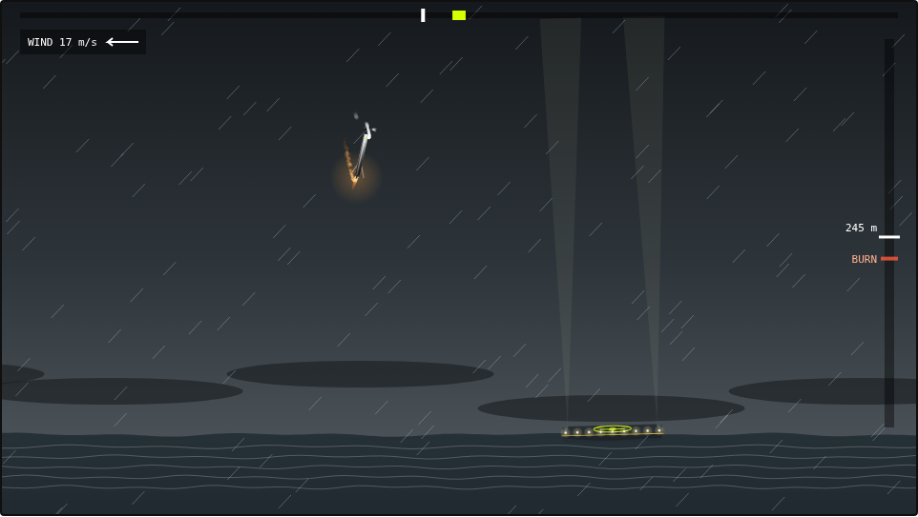
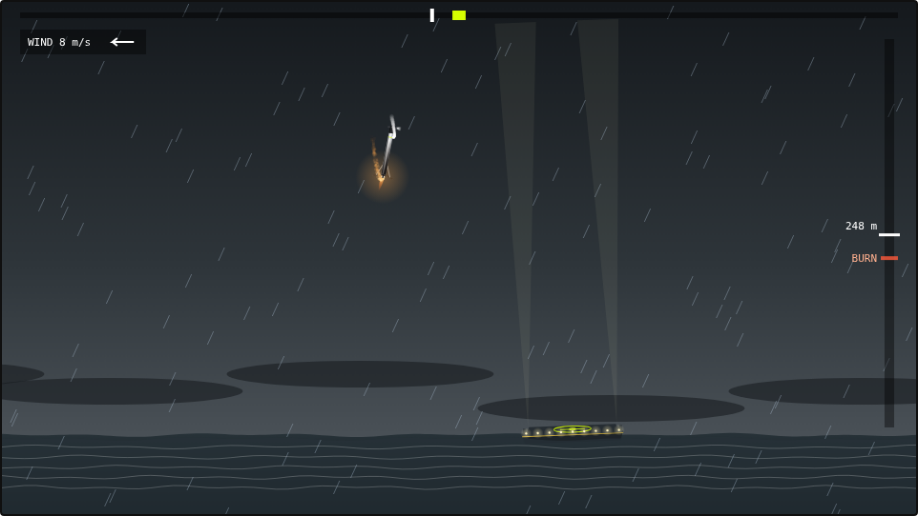
I added a Daily Drop to the booster landing and docking games: one shared UK-date challenge a day with a share card

diff --git a/docking-run-game/js/main.js b/docking-run-game/js/main.js
@@ -3,6 +3,8 @@ import * as THREE from './vendor/three.min.js';
 import * as P from './physics.js';
 import {LEVELS, byId} from './levels.js';
 import {buildBackground, buildStation, buildCapsule, puffSprite} from './scene.js';
+import {ukDate, countdown, grid, makeStore} from './daily.js';
+import {dailyLevel} from './daily-level.js';
 
 const $ = id => document.getElementById(id);
 const KEY = 'docking:stats';
@@ -15,6 +17,7 @@ const app = {sim: null, level: byId(store().level), keys: new Set(), fine: false
   orbit: {yaw: 0, pitch: 0.2, dist: 16}, said: {}, trail: [], prevJets: new Float32Array(P.JETS.length), finished: false, chaseOff: null, chaseUp: null, evIdx: 0, hudT: 0, puffs: [], resultShown: false};
 window.DockingRun = {sim: () => app.sim, start: id => start(byId(id)), setScale: k => { app.testScale = k; }, onStep: null, P, levels: LEVELS,
   orbit: () => app.orbit, setCam: c => { app.cam = c; syncToggles(); }, clean: on => { app.clean = on; over.style.visibility = on ? 'hidden' : ''; $('keys-overlay').style.visibility = on ? 'hidden' : ''; },
+  daily: () => dailyLevel(), startDaily: () => startDaily(), dailyRecord: () => DAILY.get(ukDate()), dailyCard: () => { const r = DAILY.get(ukDate()); return r && dailyCard(r); }, last: null,
   state: () => ({phase: app.sim?.phase, warp: app.warp, cam: app.cam, fine: app.fine, assist: app.assist, paused: app.paused, finished: app.finished, keys: [...app.keys]})};
 
 // ---------- renderer and scenes ----------
@@ -43,11 +46,11 @@ const CAM_TURN = new THREE.Quaternion().setFromAxisAngle(new THREE.Vector3(0, 1,
 
 // ---------- a run ----------
 function start(level) {
-  cancelAnimationFrame(app.raf); app.level = level; const st = store(); st.level = level.id; write(st);
+  cancelAnimationFrame(app.raf); if (!level.daily) { app.level = level; app.daily = null; const st = store(); st.level = level.id; write(st); }
   app.sim = P.makeSim(level); app.keys.clear(); app.warp = 1; app.paused = false; app.said = {}; app.trail = []; app.finished = false; app.resultShown = false; app.evIdx = 0; app.chaseOff = null; app.acc = 0;
   app.fine = level.start.ax < 60; syncToggles();
   $('flight').hidden = false; $('screen-title').hidden = true; document.body.dataset.screen = 'game'; scrollTo(0, 0); $('result').hidden = true;
-  $('flight-h').textContent = level.name; $('level-note').textContent = level.blurb; say('');
+  $('flight-h').textContent = level.name + (level.daily && app.daily.practice ? ' (practice)' : ''); $('level-note').textContent = (level.daily ? (app.daily.practice ? 'Practice: this run is not scored. ' : 'Your one scored run today. ') : '') + level.blurb; say('');
   if (!glReady && !initGL()) return;
   resize(); view.focus({preventScroll: true}); app.last = performance.now(); app.raf = requestAnimationFrame(loop);
 }
@@ -103,7 +106,7 @@ function poseObjects(dt) {
   const sun = P.sunDir(s), lit = P.sunlit(s), sunB = P.qrotT(st.q, sun);
   for (const w of station.wings) w.rotation.z = Math.atan2(-sunB[0], sunB[1]);
   sunLight.position.set(sun[0] * 100, sun[1] * 100, sun[2] * 100); sunLight.intensity = 2.8 * lit;
-  const below = THREE.MathUtils.smoothstep(sun[1], -0.25, 0.35); earthshine.intensity = 0.9 * below * (app.level.night ? 0 : 1);
+  const below = THREE.MathUtils.smoothstep(sun[1], -0.25, 0.35); earthshine.intensity = 0.9 * below * (s.level.night ? 0 : 1);
   const dark = 1 - lit; capsule.flood.intensity = 30 * dark + 3; station.portSpot.intensity = 50 * dark + 6; station.portLight.intensity = 5 + 10 * dark;
   const t = performance.now() / 1000;
   for (const L of station.lights) { const b = L.userData.blink; L.material.opacity = b === 1 ? (t % 1.6 < 0.9 ? 1 : 0.15) : b === 2 ? (t % 2.1 < 0.12 ? 1 : 0.05) : 0.9; L.material.opacity *= 0.35 + 0.65 * dark; }
@@ -237,8 +240,9 @@ function syncToggles() {
 
 // ---------- finish ----------
 function finish() {
-  const s = app.sim, L = app.level, sc = P.score(s), st = store(); app.resultShown = true; sound(0, true);
+  const s = app.sim, L = s.level, sc = P.score(s), st = store(); app.resultShown = true; sound(0, true);
   const ok = s.phase === 'docked';
+  if (L.daily) return finishDaily(s, L, sc, ok);
   $('result').hidden = false; const c = s.contact;
   if (ok) {
     const prev = st.best[L.id] || 0, nb = sc.total > prev; if (nb) st.best[L.id] = sc.total; st.docks[L.id] = (st.docks[L.id] || 0) + 1; write(st);
@@ -252,6 +256,34 @@ function finish() {
   }
   const i = LEVELS.indexOf(L); $('next').hidden = !ok || i === LEVELS.length - 1; levelList(); $('again').focus({preventScroll: true});
 }
+
+// ---------- Daily Drop: one scored run a day for everyone, then practice that doesn't count ----------
+const DAILY = makeStore('docking:daily'), SITE = 'https://dexmlabs.app/docking-run-game/';
+function dailyCard(rec) {
+  const head = `DEXM Docking #${rec.no}`;
+  if (!rec.docked) return `${head} 💥 ${rec.lost}\n${grid([0, 0, 0, 0, 0, 0])}\n${SITE}?daily`;
+  return `${head} 🛰 Docked ${(rec.closing * 100).toFixed(1)} cm/s · ${(rec.lat * 100).toFixed(1)} cm off · ${rec.fuelPct}% fuel\n${grid(rec.grid)} ${rec.score} pts\n${SITE}?daily`;
+}
+function startDaily() { const L = dailyLevel(), done = DAILY.get(L.date); app.daily = {L, practice: !!done || L.no < 0}; start(L); }
+function finishDaily(s, L, sc, ok) {
+  const c = s.contact, rec = ok ? {no: L.no, docked: true, score: sc.total, closing: c.closing, lat: c.lat, fuelPct: Math.round(s.prop / s.prop0 * 100), grid: [sc.parts.speed / 250, sc.parts.centre / 250, sc.parts.align / 200, sc.parts.rates / 100, sc.parts.fuel / 250, sc.parts.time / 200]}
+    : {no: L.no, docked: false, score: 0, lost: s.phase === 'lost' ? 'Lost the station.' : 'Collision.'};
+  const scored = !app.daily.practice && DAILY.put(L.date, rec); app.daily.practice = true;
+  $('result-head').textContent = ok ? `Hard capture. ${sc.total} points: ${P.rank(sc.total)}.` : rec.lost;
+  $('result-text').textContent = (ok ? `Contact at ${c.closing.toFixed(3)} m/s, ${(c.lat * 100).toFixed(1)} cm off the centreline, ${c.ang.toFixed(2)}° off axis, with ${s.prop.toFixed(1)} kg of propellant left.` : (s.fault || '')) + (scored ? ' That was your scored run for today. Fly again to practise.' : ' Practice run, not scored.');
+  if (ok) { const p = sc.parts; $('result-parts').innerHTML = [['Closing rate', p.speed], ['Centreline', p.centre], ['Alignment', p.align], ['Rates', p.rates], ['Fuel', p.fuel], ['Time', p.time]].map(([k, v]) => `<div><b>${v}</b><span>${k}</span></div>`).join(''); }
+  $('result-parts').hidden = !ok; $('next').hidden = true;
+  const today = DAILY.get(L.date); app.share = today ? dailyCard(today) : `Docking Run, ${L.name} (practice). ${SITE}?daily`; $('share').textContent = today ? 'Copy Daily Drop card' : 'Copy result';
+  window.DockingRun.last = {daily: true, docked: ok, score: sc.total || 0}; levelList(); renderDaily(); $('again').focus({preventScroll: true});
+}
+function renderDaily() {
+  const L = dailyLevel(), rec = DAILY.get(L.date), pre = L.no < 0;
+  $('daily-h').textContent = pre ? 'Daily Drop #0 lands at midnight' : `Daily Drop #${L.no}`; $('daily-blurb').textContent = (pre ? 'Preview: ' : '') + L.blurb;
+  $('daily-status').textContent = pre ? 'Practise the preview now. Scoring starts with #0.' : rec ? (rec.docked ? `Today: ${rec.score} points. Practice runs don't count.` : `Today: ${rec.lost} Practice runs don't count.`) : 'One scored run today, the same for everyone. Then practise as much as you like.';
+  $('daily-play').innerHTML = `${rec || pre ? 'Practise today\'s drop' : 'Fly today\'s drop'} <span aria-hidden="true">&rarr;</span>`; $('daily-share').hidden = !rec; $('daily').classList.toggle('played', !!rec);
+}
+function tickDaily() { $('daily-next').textContent = `Next drop in ${countdown()}`; if (app.dailyDate && app.dailyDate !== ukDate()) renderDaily(); app.dailyDate = ukDate(); }
+function copyShare(text) { app.share = text; navigator.clipboard?.writeText(text).then(() => say('Result copied.'), () => { $('share-text').hidden = false; $('share-text').value = text; }); }
 
 // ---------- sound: off unless switched on ----------
 let audio = null;
@@ -292,7 +324,7 @@ addEventListener('keydown', e => {
   if (h) { app.keys.add(h); e.preventDefault(); return; }
   if (e.repeat) return;
   const act = {KeyT: () => toggle('fine'), KeyH: () => toggle('assist'), KeyC: () => toggle('cam'), KeyP: () => toggle('pause'), Escape: () => toggle('pause'), BracketRight: () => setWarp(1), Period: () => setWarp(1), BracketLeft: () => setWarp(-1), Comma: () => setWarp(-1), Slash: () => toggle('keys'),
-    Enter: () => { if (app.resultShown) start(app.level); }, KeyN: () => { if (app.resultShown && !$('next').hidden) next(); }, KeyM: () => { const st = store(); st.sound = !st.sound; write(st); $('sound').checked = st.sound; say(st.sound ? 'Sound on.' : 'Sound off.'); if (!st.sound && audio) audio.g.gain.value = 0; }}[c];
+    Enter: () => { if (app.resultShown) again(); }, KeyN: () => { if (app.resultShown && !$('next').hidden) next(); }, KeyM: () => { const st = store(); st.sound = !st.sound; write(st); $('sound').checked = st.sound; say(st.sound ? 'Sound on.' : 'Sound off.'); if (!st.sound && audio) audio.g.gain.value = 0; }}[c];
   if (act) { act(); e.preventDefault(); }
 });
 addEventListener('keyup', e => { const h = HOLD[codeOf(e)]; if (h) app.keys.delete(h); });
@@ -309,10 +341,11 @@ view.addEventListener('pointerdown', e => { drag = {x: e.clientX, y: e.clientY, 
 addEventListener('pointermove', e => { if (!drag || app.cam !== 'chase') return; app.orbit.yaw = drag.yaw + (e.clientX - drag.x) * 0.008; app.orbit.pitch = Math.max(-1.3, Math.min(1.3, drag.pitch + (e.clientY - drag.y) * 0.006)); });
 addEventListener('pointerup', () => { drag = null; });
 view.addEventListener('wheel', e => { if (app.cam !== 'chase') return; e.preventDefault(); app.orbit.dist = Math.max(6, Math.min(120, app.orbit.dist * Math.exp(e.deltaY * 0.001))); }, {passive: false});
-$('again').addEventListener('click', () => start(app.level)); $('next').addEventListener('click', next);
+const again = () => app.daily ? startDaily() : start(app.level);
+$('again').addEventListener('click', again); $('daily-play').addEventListener('click', startDaily); $('daily-share').addEventListener('click', () => { const r = DAILY.get(ukDate()); if (r) copyShare(dailyCard(r)); }); $('next').addEventListener('click', next);
 function next() { const i = LEVELS.indexOf(app.level); start(LEVELS[Math.min(LEVELS.length - 1, i + 1)]); }
-$('share').addEventListener('click', () => navigator.clipboard?.writeText(app.share).then(() => say('Result copied.'), () => { $('share-text').hidden = false; $('share-text').value = app.share; }));
-$('back').addEventListener('click', () => { cancelAnimationFrame(app.raf); sound(0, true); app.sim = null; $('flight').hidden = true; $('screen-title').hidden = false; document.body.dataset.screen = 'title'; levelList(); scrollTo(0, 0); });
+$('share').addEventListener('click', () => copyShare(app.share));
+$('back').addEventListener('click', () => { cancelAnimationFrame(app.raf); sound(0, true); app.sim = null; $('flight').hidden = true; $('screen-title').hidden = false; document.body.dataset.screen = 'title'; levelList(); renderDaily(); scrollTo(0, 0); });
 
 // ---------- title screen ----------
 function levelList() {
@@ -326,3 +359,5 @@ $('play').addEventListener('click', () => start(app.level));
 $('sound').checked = !!store().sound; $('sound').addEventListener('change', e => { const st = store(); st.sound = e.target.checked; write(st); if (!st.sound && audio) audio.g.gain.value = 0; });
 if (store().keysHidden) $('keys-overlay').hidden = true;
 levelList(); syncToggles();
+renderDaily(); tickDaily(); setInterval(tickDaily, 1000);
+if (new URLSearchParams(location.search).has('daily')) startDaily();

diff --git a/booster-landing-game/js/main.js b/booster-landing-game/js/main.js
@@ -1,6 +1,8 @@
 import {step, deck, target, deckYAt, seaY, wind, rho, stopHeight, hoverSeconds, throttleUp, throttleDown, deployLegs, closeArms, catchWindow, inWindow, makeWorld, score, parts, LIMITS, LEGS, TOWER, CATCH, DEG} from './physics.js';
 import {LEVELS, MISSIONS, level} from './levels.js';
 import {drawVehicle} from './draw-vehicles.js';
+import {ukDate, puzzleNo, countdown, grid, makeStore} from './daily.js';
+import {dailyLevel} from './daily-level.js';
 const $ = id => document.getElementById(id);
 const read = (k, d) => { try { return JSON.parse(localStorage.getItem(k)) ?? d; } catch { return d; } };
 const write = (k, v) => { try { localStorage.setItem(k, JSON.stringify(v)); } catch {} };
@@ -22,12 +24,33 @@ function say(t) { $('feedback').textContent = t; }
 
 const NOTES = {calm: 'Coast down, burn late and hard, then feather it onto the ring. Legs below 90 m/s.', windy: 'The wind is stronger up high. Lean into it and let the grid fins glide you over.', night: 'You start supersonic. A short entry burn keeps the heat down. Watch for the deck lights.', storm: 'You will cook without an entry burn. Then a gale, rain and a deck that rises and falls a few metres.',
   'catch-calm': 'Come in beside the tower, not over it. Hover with the catch pins level with the arms, centred, then close them with C.', 'catch-cross': 'The wind blows you towards the tower. Hold a little upwind and lean into it.', 'catch-night': 'Floodlit and gusty. The green marks show where the pins need to be.'};
+// Daily Drop: one scored flight a day for everyone, then practice that doesn't count.
+const DAILY = makeStore('booster:daily'), SITE = 'https://dexmlabs.app/booster-landing-game/';
+function dailyCard(rec) {
+  const head = `DEXM Booster #${rec.no}`, tower = rec.kind === 'tower';
+  if (!rec.landed) return `${head} 💥 ${rec.lost}\n${grid([0, 0, 0, 0, 0])}\n${SITE}?daily`;
+  return `${head} ${tower ? '🗼 Caught' : '🚀 Landed'} ${rec.impact.toFixed(1)} m/s · ${rec.dist.toFixed(1)} m off · ${rec.fuelPct}% fuel\n${grid(rec.grid)} ${rec.score} pts\n${SITE}?daily`;
+}
+function startDaily() {
+  const L = dailyLevel(), done = DAILY.get(L.date);
+  app.daily = {L, practice: !!done || L.no < 0}; start(L, L.seed);
+}
+function renderDaily() {
+  const box = $('daily'); if (!box) return; const L = dailyLevel(), rec = DAILY.get(L.date), pre = L.no < 0;
+  $('daily-h').textContent = pre ? `Daily Drop #0 lands at midnight` : `Daily Drop #${L.no}`;
+  $('daily-blurb').textContent = (pre ? 'Preview: ' : '') + L.blurb;
+  $('daily-status').textContent = pre ? 'Practise the preview now. Scoring starts with #0.' : rec ? (rec.landed ? `Today: ${rec.score} points. Practice flights don't count.` : `Today: ${rec.lost} Practice flights don't count.`) : 'One scored flight today, the same for everyone. Then practise as much as you like.';
+  $('daily-play').innerHTML = `${rec || pre ? 'Practise today\'s drop' : 'Fly today\'s drop'} <span aria-hidden="true">&rarr;</span>`;
+  $('daily-share').hidden = !rec; box.classList.toggle('played', !!rec);
+}
+function tickDaily() { const e = $('daily-next'); if (e) e.textContent = `Next drop in ${countdown()}`; if (app.dailyDate && app.dailyDate !== ukDate()) renderDaily(); app.dailyDate = ukDate(); }
+function copyShare(text) { app.share = text; navigator.clipboard?.writeText(text).then(() => say('Result copied.'), () => { $('share-text').hidden = false; $('share-text').value = text; }); }
 function start(id = app.level, seed = Math.floor(Math.random() * 2 ** 31)) {
-  cancelAnimationFrame(app.raf); app.level = id; const L = level(id), w = makeWorld(L, seed, {assist: app.assist});
+  cancelAnimationFrame(app.raf); const L = typeof id === 'object' ? id : level(id); if (!L.daily) { app.level = id; app.daily = null; } const w = makeWorld(L, seed, {assist: L.daily ? false : app.assist});
   Object.assign(app, {w, s: {...w.start}, keys: {}, said: {}, parts: [], rings: [], shake: 0, flash: 0, bolt: null, paused: false, acc: 0, ended: false, rec: [], replay: null, after: 0});
   app.cam = {scale: camTarget(w, w.start).scale, x: w.start.x}; app.clouds = makeClouds(seed, L);
   $('flight').hidden = false; $('screen-title').hidden = true; document.body.dataset.screen = 'game'; document.body.dataset.kind = w.kind; scrollTo(0, 0); $('result').hidden = true; $('paused').hidden = true; say('');
-  $('flight-h').textContent = `${L.name}: ${L.blurb}`; $('level-note').textContent = NOTES[id] + (w.kind === 'tower' && w.assist ? ' Arm assist is on.' : '');
+  $('flight-h').textContent = `${L.name}${L.daily && app.daily.practice ? ' (practice)' : ''}: ${L.blurb}`; $('level-note').textContent = (L.daily ? (app.daily.practice ? 'Practice: this flight is not scored. ' : 'Your one scored flight today. ') + (w.kind === 'tower' ? NOTES['catch-calm'] : NOTES.calm) : NOTES[id]) + (w.kind === 'tower' && w.assist ? ' Arm assist is on.' : '');
   const tower = w.kind === 'tower', lab = (k, t) => { $('h-' + k).nextElementSibling.textContent = t; };
   lab('alt', tower ? 'Pins above arms' : 'Height above deck'); lab('range', tower ? 'To the arms' : 'To deck centre'); lab('legs', tower ? 'Arms' : 'Legs'); lab('deck', tower ? 'Carriage height' : 'Deck, m/s');
   $('legs').textContent = tower ? 'Close arms (C)' : 'Legs (L)'; $('legs').setAttribute('aria-label', tower ? 'Close the arms (C)' : 'Deploy legs (L)');
@@ -253,13 +276,18 @@ function finish() {
   if (s.landed) { const p = parts(s, w); $('result-parts').innerHTML = [['Soft', p.soft], ['Level', p.level], ['Still', p.still], ['Centre', p.centre], ['Fuel', p.fuel], ['Bullseye', p.bull]].map(([k, q]) => `<div><b>${q}</b><span>${k}</span></div>`).join('') + `<div><b>×${+p.mult.toFixed(3)}</b><span>${L.name}${w.assist ? ', assist' : ''}</span></div>`; $('result-parts').hidden = false; }
   else $('result-parts').hidden = true;
   st.best = st.best || {}; st.landed = st.landed || {};
-  if (s.landed) { st.landed[L.id] = (st.landed[L.id] || 0) + 1; if (sc > (st.best[L.id] || 0)) { st.best[L.id] = sc; txt += ' A new personal best.'; } }
+  if (L.daily) { const p = s.landed ? parts(s, w) : null, rec = {no: L.no, kind: w.kind, landed: !!s.landed, score: sc, impact: t.impact, dist: t.dist, fuelPct: Math.round(s.fuel / w.fuel * 100), lost: $('result-head').textContent,
+      grid: p ? [p.soft / 300, p.level / 150, p.still / 100, p.centre / 350, p.fuel / 250].map(x => x / p.mult) : []};
+    if (!app.daily.practice && DAILY.put(L.date, rec)) txt += ' That was your scored flight for today. Fly again to practise.'; else txt += ' Practice flight, not scored.';
+    app.daily.practice = true; }
+  else if (s.landed) { st.landed[L.id] = (st.landed[L.id] || 0) + 1; if (sc > (st.best[L.id] || 0)) { st.best[L.id] = sc; txt += ' A new personal best.'; } }
   $('result-text').textContent = txt; write(KEY, st);
-  const i = LEVELS.findIndex(l => l.id === L.id), nx = LEVELS[i + 1]; $('next').hidden = !s.landed || !nx || nx.mission !== L.mission; if (!$('next').hidden) $('next').textContent = `Next: ${nx.name} (N)`;
+  const i = LEVELS.findIndex(l => l.id === L.id), nx = LEVELS[i + 1]; $('next').hidden = L.daily || !s.landed || !nx || nx.mission !== L.mission; if (!$('next').hidden) $('next').textContent = `Next: ${nx.name} (N)`;
   $('replay').hidden = app.rec.length < 10;
   app.share = `Booster landing, ${L.name}\n${s.landed ? `${tower ? 'Caught' : 'Recovered'}, ${sc} points, ${t.dist.toFixed(1)} m from centre at ${t.impact.toFixed(1)} m/s` : 'Lost'}\nhttps://dexmlabs.app/booster-landing-game/`;
-  renderMissions(); setLevel(L.id); $('again').focus({preventScroll: true});
-  window.BoosterGame.last = {landed: !!s.landed, caught: !!s.caught, score: sc, fault: s.fault?.k || null, touch: s.touch || null};
+  const today = L.daily && DAILY.get(L.date); if (today) app.share = dailyCard(today); $('share').textContent = today ? 'Copy Daily Drop card' : 'Copy result';
+  renderMissions(); setLevel(app.level); renderDaily(); $('again').focus({preventScroll: true});
+  window.BoosterGame.last = {daily: !!L.daily, landed: !!s.landed, caught: !!s.caught, score: sc, fault: s.fault?.k || null, touch: s.touch || null};
 }
 
 // Sound: off unless switched on. All made here with WebAudio, no files.
@@ -302,7 +330,7 @@ addEventListener('keydown', e => {
   else if (low === 'l' || low === 'g') legs();
   else if (low === 'c') arms();
   else if (low === 'p' || e.key === 'Escape') pause();
-  else if (low === 'r' && app.s.done) start(app.level);
+  else if (low === 'r' && app.s.done) again();
   else if (low === 'v' && app.s.done) startReplay();
   else if (low === 'n' && app.s.done && !$('next').hidden) next();
 });
@@ -313,10 +341,13 @@ document.querySelectorAll('[data-hold]').forEach(b => { const k = b.dataset.hold
 const tap = (id, f) => $(id).addEventListener('click', f);
 tap('th-up', () => thr(throttleUp)); tap('th-down', () => thr(throttleDown)); tap('th-full', () => thr(() => 1)); tap('th-cut', () => thr(() => 0)); tap('legs', legs); tap('pause', () => pause()); tap('resume', () => pause(false));
 function next() { const i = LEVELS.findIndex(l => l.id === app.level); start(LEVELS[Math.min(LEVELS.length - 1, i + 1)].id); }
-tap('again', () => start(app.level)); tap('next', next); tap('play', () => start(app.level)); tap('replay', startReplay);
-tap('share', () => navigator.clipboard?.writeText(app.share).then(() => say('Result copied.'), () => { $('share-text').hidden = false; $('share-text').value = app.share; }));
-tap('back', () => { cancelAnimationFrame(app.raf); if (app.audio) app.audio.out.gain.value = 0; app.s = null; app.replay = null; $('flight').hidden = true; $('screen-title').hidden = false; document.body.dataset.screen = 'title'; renderMissions(); setLevel(app.level); scrollTo(0, 0); });
+const again = () => app.daily ? startDaily() : start(app.level);
+tap('again', again); tap('daily-play', startDaily); tap('daily-share', () => { const r = DAILY.get(ukDate()); if (r) copyShare(dailyCard(r)); }); tap('next', next); tap('play', () => start(app.level)); tap('replay', startReplay);
+tap('share', () => copyShare(app.share));
+tap('back', () => { cancelAnimationFrame(app.raf); if (app.audio) app.audio.out.gain.value = 0; app.s = null; app.replay = null; $('flight').hidden = true; $('screen-title').hidden = false; document.body.dataset.screen = 'title'; renderMissions(); setLevel(app.level); renderDaily(); scrollTo(0, 0); });
 $('sound').checked = !!store().sound; $('sound').addEventListener('change', e => { const st = store(); st.sound = e.target.checked; write(KEY, st); if (e.target.checked && app.s) sound(); });
 // For tests and the curious: read only views of the flight.
-window.BoosterGame = {flights: 0, last: null, state: () => app.s && {...app.s}, world: () => app.w, deck: () => app.s && deck(app.w, app.s.t), level: () => app.level, replaying: () => !!app.replay, start: (id, opts = {}) => { if ('assist' in opts) app.assist = !!opts.assist; start(id); }};
+window.BoosterGame = {flights: 0, last: null, state: () => app.s && {...app.s}, world: () => app.w, deck: () => app.s && deck(app.w, app.s.t), level: () => app.level, replaying: () => !!app.replay, start: (id, opts = {}) => { if ('assist' in opts) app.assist = !!opts.assist; start(id); }, daily: () => dailyLevel(), startDaily, dailyRecord: () => DAILY.get(ukDate()), dailyCard: () => { const r = DAILY.get(ukDate()); return r && dailyCard(r); }};
 app.assist = !!store().assist; renderMissions(); setLevel(level(store().level || 'calm').id);
+renderDaily(); tickDaily(); setInterval(tickDaily, 1000);
+if (new URLSearchParams(location.search).has('daily')) startDaily();

diff --git a/booster-landing-game/js/daily.js b/booster-landing-game/js/daily.js
@@ -1,0 +1,32 @@
+// Daily Drop: one shared challenge a day, by the date in the UK (Europe/London), the same for everyone.
+// Pure helpers, no DOM, so the tests can run them in Node.
+export const LAUNCH = '2026-10-20', TZ = 'Europe/London';
+const fmt = new Intl.DateTimeFormat('en-CA', {timeZone: TZ, year: 'numeric', month: '2-digit', day: '2-digit'});
+const parts = d => Object.fromEntries(fmt.formatToParts(d).filter(p => p.type !== 'literal').map(p => [p.type, +p.value]));
+// The UK date, as YYYY-MM-DD.
+export function ukDate(now = new Date()) { const p = parts(now); return `${p.year}-${String(p.month).padStart(2, '0')}-${String(p.day).padStart(2, '0')}`; }
+const dayIndex = s => { const [y, m, d] = s.split('-').map(Number); return Math.round(Date.UTC(y, m - 1, d) / 864e5); };
+export const addDays = (s, n) => new Date((dayIndex(s) + n) * 864e5).toISOString().slice(0, 10);
+// Puzzle number: days since the launch date, so launch day is #0.
+export const puzzleNo = (s = ukDate()) => dayIndex(s) - dayIndex(LAUNCH);
+// London's offset from UTC in minutes at a moment.
+function offsetAt(ms) { const p = new Intl.DateTimeFormat('en-GB', {timeZone: TZ, hourCycle: 'h23', year: 'numeric', month: 'numeric', day: 'numeric', hour: 'numeric', minute: 'numeric', second: 'numeric'}).formatToParts(new Date(ms)).reduce((o, x) => (o[x.type] = +x.value, o), {});
+  return Math.round((Date.UTC(p.year, p.month - 1, p.day, p.hour, p.minute, p.second) - Math.floor(ms / 1000) * 1000) / 6e4); }
+// The moment of the next UK midnight, when the next drop arrives.
+export function nextDrop(now = new Date()) {
+  const [y, m, d] = addDays(ukDate(now), 1).split('-').map(Number), guess = Date.UTC(y, m - 1, d);
+  let t = guess - offsetAt(guess) * 6e4; t = guess - offsetAt(t) * 6e4; return t;
+}
+export const countdown = (now = new Date()) => { const s = Math.max(0, Math.ceil((nextDrop(now) - now.getTime()) / 1000)); return `${Math.floor(s / 3600)}:${String(Math.floor(s / 60) % 60).padStart(2, '0')}:${String(s % 60).padStart(2, '0')}`; };
+// A 32 bit seed from the date and the game's name.
+export function seedFor(date, salt = '') { let h = 2166136261; for (const c of salt + '|' + date) { h ^= c.charCodeAt(0); h = Math.imul(h, 16777619); } return h >>> 0; }
+export function rng(seed) { let a = seed >>> 0; return () => { a = (a + 0x6D2B79F5) >>> 0; let t = a; t = Math.imul(t ^ (t >>> 15), t | 1); t ^= t + Math.imul(t ^ (t >>> 7), t | 61); return ((t ^ (t >>> 14)) >>> 0) / 4294967296; }; }
+// One square per part of the score, a fraction of its best.
+export const square = f => f >= 0.8 ? '🟩' : f >= 0.5 ? '🟨' : f > 0 ? '🟧' : '🟥';
+export const grid = fs => fs.map(square).join('');
+// The one scored attempt a day, kept in this browser.
+export function makeStore(key, ls = globalThis.localStorage) {
+  const all = () => { try { return JSON.parse(ls.getItem(key)) || {}; } catch { return {}; } };
+  return {all, get: date => all()[date] || null, put: (date, rec) => { const a = all(); if (a[date]) return false; a[date] = rec; try { ls.setItem(key, JSON.stringify(a)); } catch {} return true; },
+    streak: date => { const a = all(); let n = 0; for (let d = date; a[d]; d = addDays(d, -1)) n++; return n; }};
+}

diff --git a/docking-run-game/js/daily.js b/docking-run-game/js/daily.js
@@ -1,0 +1,32 @@
+// Daily Drop: one shared challenge a day, by the date in the UK (Europe/London), the same for everyone.
+// Pure helpers, no DOM, so the tests can run them in Node.
+export const LAUNCH = '2026-10-20', TZ = 'Europe/London';
+const fmt = new Intl.DateTimeFormat('en-CA', {timeZone: TZ, year: 'numeric', month: '2-digit', day: '2-digit'});
+const parts = d => Object.fromEntries(fmt.formatToParts(d).filter(p => p.type !== 'literal').map(p => [p.type, +p.value]));
+// The UK date, as YYYY-MM-DD.
+export function ukDate(now = new Date()) { const p = parts(now); return `${p.year}-${String(p.month).padStart(2, '0')}-${String(p.day).padStart(2, '0')}`; }
+const dayIndex = s => { const [y, m, d] = s.split('-').map(Number); return Math.round(Date.UTC(y, m - 1, d) / 864e5); };
+export const addDays = (s, n) => new Date((dayIndex(s) + n) * 864e5).toISOString().slice(0, 10);
+// Puzzle number: days since the launch date, so launch day is #0.
+export const puzzleNo = (s = ukDate()) => dayIndex(s) - dayIndex(LAUNCH);
+// London's offset from UTC in minutes at a moment.
+function offsetAt(ms) { const p = new Intl.DateTimeFormat('en-GB', {timeZone: TZ, hourCycle: 'h23', year: 'numeric', month: 'numeric', day: 'numeric', hour: 'numeric', minute: 'numeric', second: 'numeric'}).formatToParts(new Date(ms)).reduce((o, x) => (o[x.type] = +x.value, o), {});
+  return Math.round((Date.UTC(p.year, p.month - 1, p.day, p.hour, p.minute, p.second) - Math.floor(ms / 1000) * 1000) / 6e4); }
+// The moment of the next UK midnight, when the next drop arrives.
+export function nextDrop(now = new Date()) {
+  const [y, m, d] = addDays(ukDate(now), 1).split('-').map(Number), guess = Date.UTC(y, m - 1, d);
+  let t = guess - offsetAt(guess) * 6e4; t = guess - offsetAt(t) * 6e4; return t;
+}
+export const countdown = (now = new Date()) => { const s = Math.max(0, Math.ceil((nextDrop(now) - now.getTime()) / 1000)); return `${Math.floor(s / 3600)}:${String(Math.floor(s / 60) % 60).padStart(2, '0')}:${String(s % 60).padStart(2, '0')}`; };
+// A 32 bit seed from the date and the game's name.
+export function seedFor(date, salt = '') { let h = 2166136261; for (const c of salt + '|' + date) { h ^= c.charCodeAt(0); h = Math.imul(h, 16777619); } return h >>> 0; }
+export function rng(seed) { let a = seed >>> 0; return () => { a = (a + 0x6D2B79F5) >>> 0; let t = a; t = Math.imul(t ^ (t >>> 15), t | 1); t ^= t + Math.imul(t ^ (t >>> 7), t | 61); return ((t ^ (t >>> 14)) >>> 0) / 4294967296; }; }
+// One square per part of the score, a fraction of its best.
+export const square = f => f >= 0.8 ? '🟩' : f >= 0.5 ? '🟨' : f > 0 ? '🟧' : '🟥';
+export const grid = fs => fs.map(square).join('');
+// The one scored attempt a day, kept in this browser.
+export function makeStore(key, ls = globalThis.localStorage) {
+  const all = () => { try { return JSON.parse(ls.getItem(key)) || {}; } catch { return {}; } };
+  return {all, get: date => all()[date] || null, put: (date, rec) => { const a = all(); if (a[date]) return false; a[date] = rec; try { ls.setItem(key, JSON.stringify(a)); } catch {} return true; },
+    streak: date => { const a = all(); let n = 0; for (let d = date; a[d]; d = addDays(d, -1)) n++; return n; }};
+}

diff --git a/booster-landing-game/js/daily-level.js b/booster-landing-game/js/daily-level.js
@@ -1,0 +1,27 @@
+// The Daily Drop flight: wind and gusts, swell, start height, offset and speed, fuel and the vehicle,
+// all from the UK date, so everyone flies the same booster today. The seven levels are not touched.
+import {ukDate, puzzleNo, seedFor, rng} from './daily.js';
+const D = Math.PI / 180, lerp = (a, b, t) => a + (b - a) * t;
+export function dailyLevel(date = ukDate()) {
+  const seed = seedFor(date, 'booster'), r = rng(seed), u = (a, b) => lerp(a, b, r()), sign = () => r() < 0.5 ? -1 : 1;
+  const tower = r() < 0.3, k = r(); // k: how hard today is, 0 to 1
+  const sky = ['day', 'dusk', 'night'][Math.floor(r() * 3)];
+  let L;
+  if (!tower) {
+    const y = Math.round(lerp(2400, 5200, k) + u(-200, 200)), x = Math.round(sign() * u(150, lerp(300, 650, k)));
+    const vy = -Math.round(lerp(120, 200, k) + u(-10, 10)), vx = +(-Math.sign(x) * u(0, 8)).toFixed(1);
+    const heave = +lerp(0.3, 1.3, u(0.6 * k, 0.4 + 0.6 * k)).toFixed(2), pitch = +lerp(0.8, 2.6, u(0.6 * k, 0.4 + 0.6 * k)).toFixed(2);
+    const base = +(sign() * u(0, lerp(2, 8, k))).toFixed(1), gust = +u(1, lerp(3, 7, k)).toFixed(1), turb = +u(0, lerp(0.2, 0.6, k)).toFixed(2);
+    const fuel = Math.round((4700 + (y - 2400) * 0.35 + Math.abs(x) * 0.8 + Math.abs(base) * 40 + u(0, 300)) / 50) * 50;
+    L = {mission: 'ship', kind: 'ship', vehicle: 'f9', rcs: 100, fuel, start: {x, y, vx, vy, jitter: 0}, sea: {heave, pitch: pitch * D, period: +u(7.5, 9).toFixed(1)}, wind: {base, gust, turb}, sky};
+  } else {
+    const y = Math.round(lerp(2600, 3800, k) + u(-150, 150)), x = Math.round(u(240, lerp(320, 460, k)));
+    const vy = -Math.round(lerp(120, 155, k) + u(-8, 8)), vx = +(-u(1, 6)).toFixed(1);
+    const base = +(u(-1, 1) * lerp(1, 6, k)).toFixed(1), gust = +u(1, lerp(2.5, 5.5, k)).toFixed(1), turb = +u(0, lerp(0.1, 0.5, k)).toFixed(2);
+    const fuel = Math.round((4900 + (y - 2600) * 0.3 + Math.abs(base) * 40 + u(0, 200)) / 50) * 50;
+    L = {mission: 'tower', kind: 'tower', vehicle: 'sh', rcs: 120, fuel, start: {x, y, vx, vy, jitter: 0}, sea: {heave: 0, pitch: 0, period: 9}, wind: {base, gust, turb}, sky};
+  }
+  const n = puzzleNo(date), mult = +(1.5 + 1.5 * k).toFixed(2);
+  return {...L, id: 'daily', daily: true, date, no: n, seed, difficulty: +k.toFixed(2), mult, name: n < 0 ? "Daily Drop preview" : `Daily Drop #${n}`,
+    blurb: `${tower ? 'Tower catch' : 'Drone ship'}, ${Math.round(L.start.y / 100) / 10} km up, wind ${Math.abs(L.wind.base)} m/s gusting ${L.wind.gust}${tower ? '' : `, swell ${L.sea.heave} m`}.`};
+}

diff --git a/docking-run-game/js/daily-level.js b/docking-run-game/js/daily-level.js
@@ -1,0 +1,19 @@
+// The Daily Drop run: start range, offsets, rotation rates, station tumble and propellant, all from the UK date,
+// so everyone flies the same docking today. The five runs are not touched.
+import {ukDate, puzzleNo, seedFor, rng} from './daily.js';
+const lerp = (a, b, t) => a + (b - a) * t, r2 = (x, d = 2) => +x.toFixed(d);
+export function dailyLevel(date = ukDate()) {
+  const seed = seedFor(date, 'docking'), r = rng(seed), u = (a, b) => lerp(a, b, r()), sg = () => r() < 0.5 ? -1 : 1;
+  const k = r(), ax = Math.round(lerp(30, 160, k * u(0.6, 1))), off = lerp(0.02, 0.03, r()) * ax;
+  const tumble = r() < 0.35, spin = tumble ? r2(sg() * u(0.3, lerp(0.5, 1.0, k)), 2) : 0;
+  const night = r() < 0.2, sun = night ? -90 : Math.round(u(10, 80));
+  const start = {ax, y: r2(sg() * u(0.3, 1) * off), z: r2(sg() * u(0.3, 1) * off), v: [r2(-u(0, 0.05) * Math.min(1, ax / 60), 3), r2(u(-0.01, 0.01), 3), r2(u(-0.01, 0.01), 3)],
+    att: [0, 0, 0].map(() => r2(sg() * u(1, lerp(3, 7, k)), 1)), rates: [0, 0, 0].map(() => r2(u(-1, 1) * lerp(0.03, 0.1, k), 3))};
+  const L = {start, sun, beta: Math.round(u(0, 30)), night};
+  if (tumble) { const w = [spin, r2(u(-0.04, 0.04), 3), r2(u(-0.03, 0.03), 3)]; L.station = {spin: w}; start.rates = start.rates.map((x, i) => r2(x - w[i], 3)); }
+  L.fuel = Math.round(8 + ax * 0.1 + (tumble ? 6 + Math.abs(spin) * 6 : 0) + u(0, 3));
+  L.par = Math.round(300 + ax * 3.5 + (tumble ? 150 : 0));
+  const n = puzzleNo(date);
+  return {...L, id: 'daily', daily: true, date, no: n, seed, difficulty: r2(k), name: n < 0 ? "Daily Drop preview" : `Daily Drop #${n}`, short: `${ax} m`,
+    blurb: `${ax} m out, ${Math.round(Math.hypot(start.y, start.z) * 100)} cm off the axis${tumble ? `, station spinning at ${Math.abs(spin)}°/s` : ', station holding steady'}${night ? ', in orbital night' : ''}, ${L.fuel} kg of propellant.`};
+}

diff --git a/booster-landing-game/index.html b/booster-landing-game/index.html
@@ -20,6 +20,7 @@
 <h1 id="title-h">Booster Landing Game</h1>
 <p class="hero-copy">The booster has done its job and is falling back to Earth, engines first. Land a Falcon 9 style booster on a ship at sea, its deck rising and falling with the swell, or bring a stainless Super Heavy style booster back to the launch tower and hover it between the chopstick arms.</p>
 <p class="hero-detail">Coast, light the engine late, lean with the grid fins, then feather it onto the deck or into the catch window. Score for a soft, level, centred finish with fuel to spare.</p>
+<section id="daily" class="daily-card" aria-labelledby="daily-h"><p class="eyebrow">Daily Drop · same flight for everyone, every UK day</p><h2 id="daily-h">Daily Drop</h2><p id="daily-blurb" class="muted"></p><p id="daily-status" class="tiny"></p><div class="hero-buttons"><button class="primary" id="daily-play">Fly today's drop <span aria-hidden="true">&rarr;</span></button><button class="secondary" id="daily-share" type="button" hidden>Copy share card</button></div><p id="daily-next" class="tiny daily-next" aria-live="off"></p></section>
 <div id="missions" class="missions" aria-label="Missions"></div>
 <div class="hero-buttons"><button class="primary" id="play">Fly Calm <span aria-hidden="true">&rarr;</span></button></div>
 <p class="hero-facts muted">Keys: W and S throttle, Q and E lean, A and D gimbal the engine, L legs, C closes the tower arms. On a phone, use the buttons under the picture.</p><p class="disclaimer">Fan-made game. Not affiliated with, endorsed or sponsored by SpaceX. SpaceX, Falcon 9 and Starship are trademarks of Space Exploration Technologies Corp.</p>

diff --git a/docking-run-game/index.html b/docking-run-game/index.html
@@ -20,6 +20,7 @@
 <h1 id="title-h">Docking Run</h1>
 <p class="hero-copy">Fly a crew capsule onto a space station's docking port, by hand. Twenty thrusters at their real positions, a rigid body that keeps turning once it starts, and orbital mechanics that make every burn do something slightly unexpected.</p>
 <p class="hero-detail">Touch the ring at 3 to 10 centimetres a second, within 10 cm of the centreline and 4° of alignment, and the latches catch you. Any faster and you bounce or break something.</p>
+<section id="daily" class="daily-card" aria-labelledby="daily-h"><p class="eyebrow">Daily Drop · same run for everyone, every UK day</p><h2 id="daily-h">Daily Drop</h2><p id="daily-blurb" class="muted"></p><p id="daily-status" class="tiny"></p><div class="hero-buttons"><button class="primary" id="daily-play">Fly today's drop <span aria-hidden="true">&rarr;</span></button><button class="secondary" id="daily-share" type="button" hidden>Copy share card</button></div><p id="daily-next" class="tiny daily-next" aria-live="off"></p></section>
 <div class="mode-switch"><fieldset class="tiers levels"><legend>Pick a run</legend><div id="levels" class="level-grid"></div></fieldset><p id="play-blurb" class="tiny"></p></div>
 <div class="hero-buttons"><button class="primary" id="play">Fly <span aria-hidden="true">&rarr;</span></button><a class="secondary" href="#how-h">How to fly it</a></div>
 <p id="best" class="hero-facts muted"></p>

diff --git a/docking-run-game/css/style.css b/docking-run-game/css/style.css
@@ -133,3 +133,5 @@ body[data-screen=game] .article,body[data-screen=game] .dexm-signup{display:none
 @media(max-width:760px){.keys-overlay{display:none}.hud{grid-template-columns:repeat(2,1fr)!important}.hud .fuel{grid-column:span 2}.toggles{grid-template-columns:repeat(4,1fr)}.limits li{font-size:11px}}
 @media(max-width:760px){.game-stage{order:-2!important}#feedback{order:-1!important}.game-controls>.card-box:nth-child(3){order:0!important}.game-controls>.card-box:first-child{order:1!important}.game-controls>.card-box:nth-child(2){order:2!important}}
 @media(max-width:430px){.site-header nav{gap:8px}.site-header{padding:0 10px}.wordmark{font-size:17px;white-space:nowrap;gap:6px}.wordmark svg{width:22px;height:22px;margin-right:0}.site-header{gap:8px}.limits li span{min-width:0}}
+.daily-card{max-width:560px;margin:0 0 18px;padding:16px 18px;border:2px solid var(--acid);background:var(--panel)}.daily-card h2{margin:4px 0 6px;font-size:26px}.daily-card .eyebrow{margin:0}.daily-card .hero-buttons{margin-top:10px}.daily-next{margin:10px 0 0;font-variant-numeric:tabular-nums}
+.daily-card [hidden]{display:none!important}

diff --git a/booster-landing-game/css/style.css b/booster-landing-game/css/style.css
@@ -120,3 +120,5 @@ body[data-screen=game] .support-cta{display:none}
 .disclaimer{font-size:11px;color:var(--muted);max-width:560px;margin:10px 0 0;line-height:1.5}.footer-disclaimer{flex-basis:100%;color:var(--muted);font-size:11px;order:3}
 .title-copy{width:58%}@media(max-width:1100px){.title-copy{width:66%}}
 @media(max-width:760px){.title-copy{width:auto}.mission{grid-template-columns:72px 1fr}.preview{width:72px;height:144px}}
+.daily-card{max-width:640px;margin:0 0 18px;padding:16px 18px;border:2px solid var(--acid);background:var(--panel)}.daily-card h2{margin:4px 0 6px;font-size:26px}.daily-card .eyebrow{margin:0}.daily-card .hero-buttons{margin-top:10px}.daily-next{margin:10px 0 0;font-variant-numeric:tabular-nums}
+.daily-card [hidden]{display:none!important}
